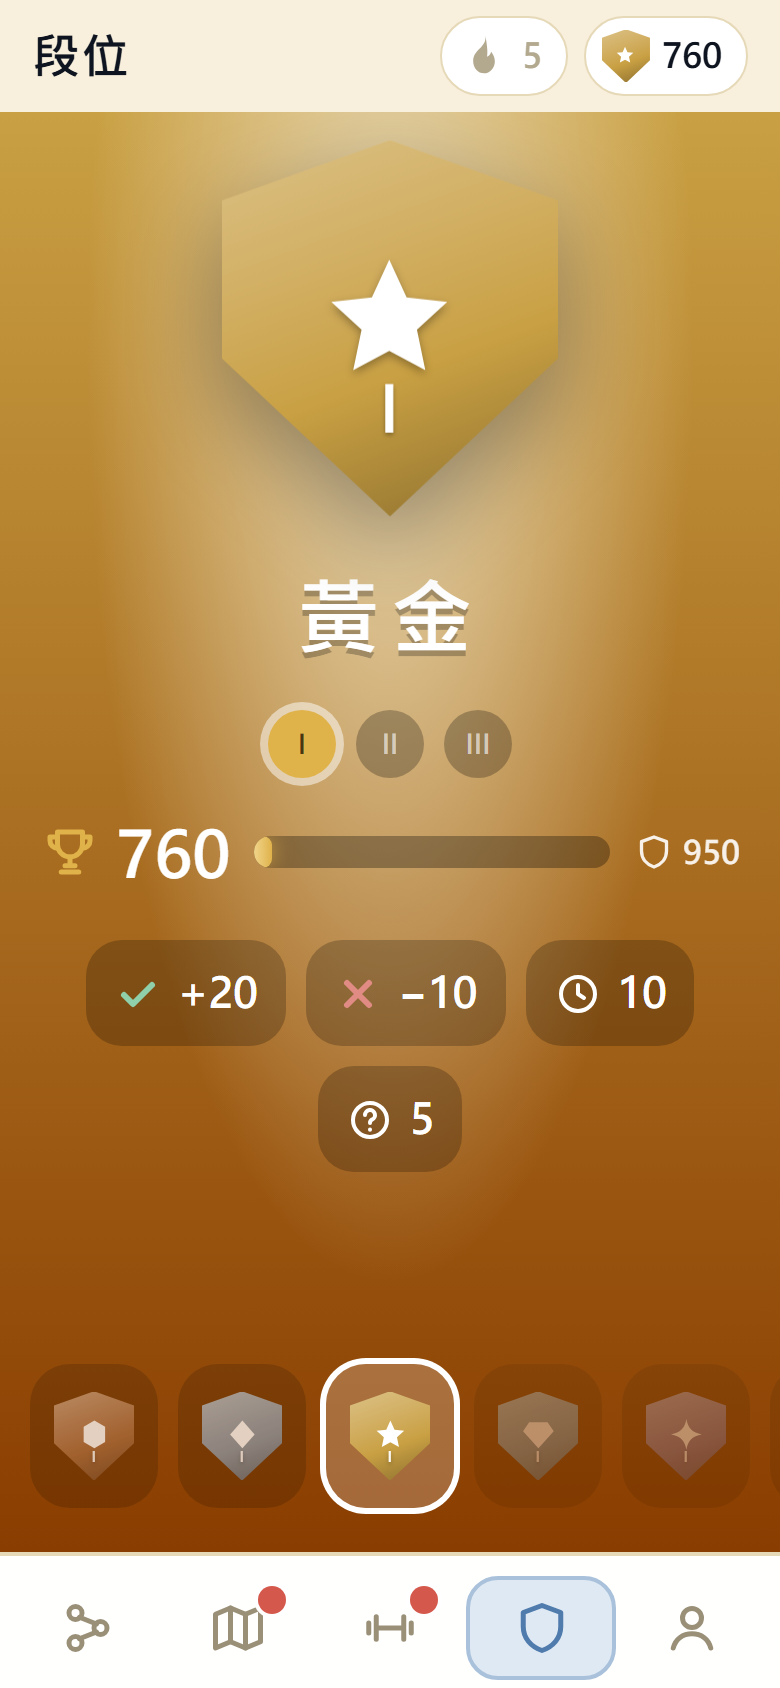
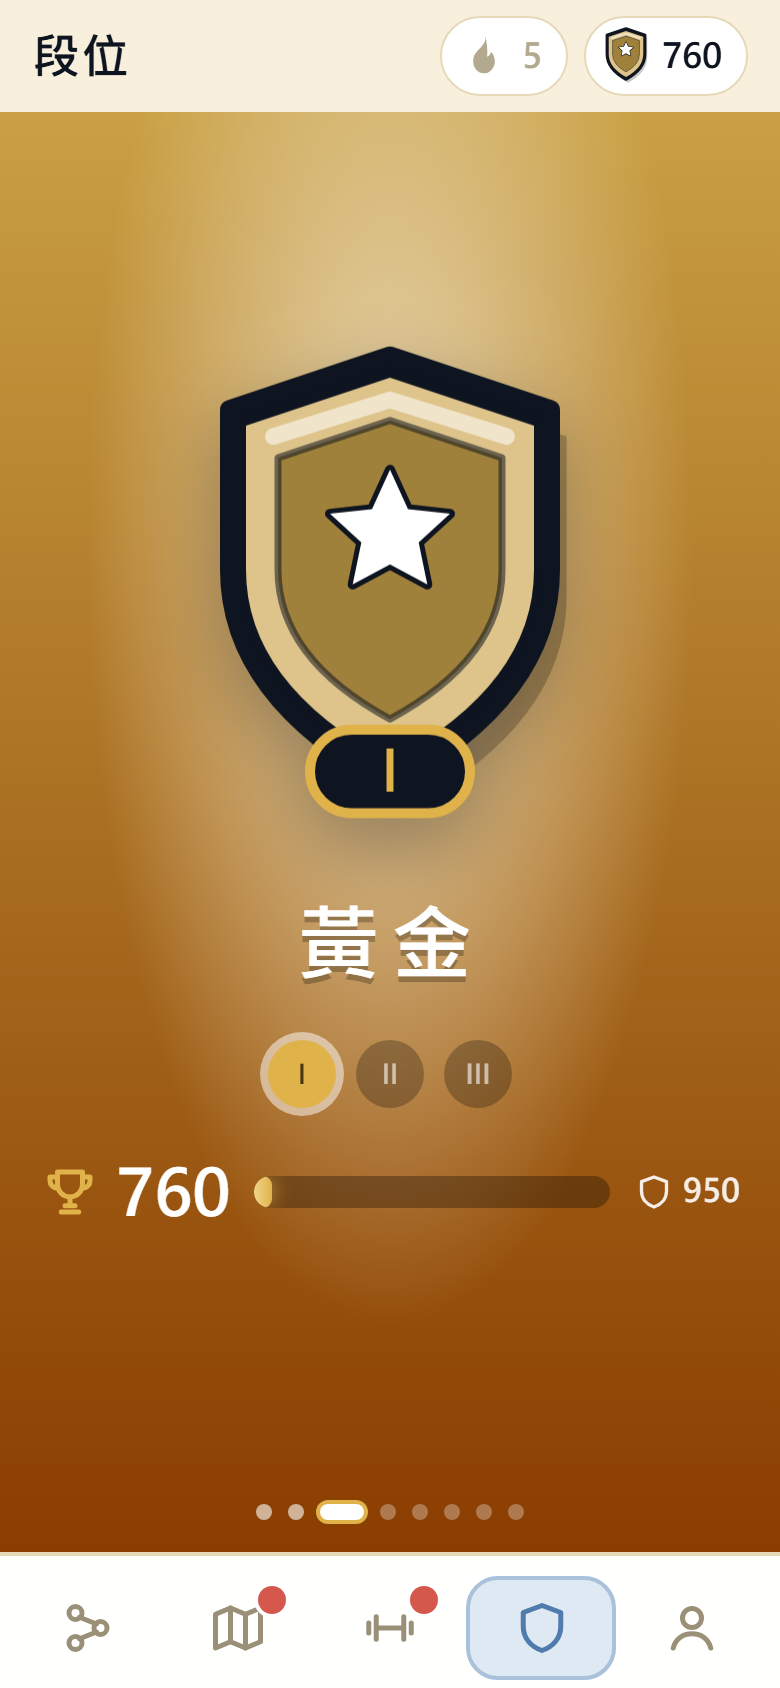
段位頁：固定不捲動、左右滑動換段位、移除規則數字、徽章重畫

diff --git a/js/views/league.js b/js/views/league.js
@@ -1,5 +1,5 @@
-// 段位：整頁是目前（或你點選）那個段位的顏色。大徽章、三階小點、盃數進度條，下方一排段位可以點。
-// 規則只用圖示和數字：答對加幾盃、答錯扣幾盃、每題幾秒、一局幾題。沒有說明文字，也沒有白色方框。
+// 段位：一頁固定、不上下滑。左右滑動換段位（像翻卡片），整頁是目前這個段位的顏色。
+// 畫面只有：大徽章、段位名稱、三階小點、盃數進度。沒有規則說明，也沒有白色方框。
 import { esc } from "../util.js";
 import { ic } from "../icons.js";
 import { rankBadge } from "../game.js";
@@ -7,22 +7,18 @@ import { rankBadge } from "../game.js";
 const ROMAN = ["I", "II", "III"];
 
 export function mountLeague(root, ctx) {
-  let sel = ctx.game.standing().tier.ri;
+  const st0 = ctx.game.standing();
+  let idx = st0.tier.ri;
   root.classList.add("bleed");
+  document.documentElement.classList.add("no-scroll");
 
-  function render() {
-    const st = ctx.game.standing();
-    const ranks = ctx.game.ranks;
-    const r = ranks[sel];
-    const isCur = sel === st.tier.ri;
-    const past = sel < st.tier.ri;
-    const m = r.match || {};
+  function slide(r, i, st) {
+    const isCur = i === st.tier.ri;
+    const past = i < st.tier.ri;
     const start = r.tiers[0];
-    const end = ranks[sel + 1]?.tiers[0] ?? null;
-    const tier = isCur ? st.tier : ctx.game.tierOf(start);
+    const ti = isCur ? st.tier.ti : (past ? r.tiers.length - 1 : 0);
     const pips = r.tiers.length > 1
-      ? `<ol class="lg-pips">${r.tiers.map((t, i) => `<li class="${past || (isCur && st.trophies >= t) ? "is-on" : ""}${isCur && st.tier.ti === i ? " is-now" : ""}">${ROMAN[i]}</li>`).join("")}</ol>` : "";
-    // 目前段位：進度條；沒到的段位：鎖頭和需要的盃數；過了的段位：勾
+      ? `<ol class="lg-pips">${r.tiers.map((t, k) => `<li class="${past || (isCur && st.trophies >= t) ? "is-on" : ""}${isCur && st.tier.ti === k ? " is-now" : ""}">${ROMAN[k]}</li>`).join("")}</ol>` : `<ol class="lg-pips" aria-hidden="true"></ol>`;
     let status;
     if (isCur) {
       const pct = Math.round(st.progress * 100);
@@ -30,37 +26,65 @@ export function mountLeague(root, ctx) {
         ${st.next ? `<div class="lg-bar" role="progressbar" aria-valuenow="${pct}" aria-valuemin="0" aria-valuemax="100"><span style="width:${pct}%"></span></div><span class="lg-to">${ic("shield")}<b>${st.next.from}</b></span>` : ""}</div>`;
     } else if (past) status = `<div class="lg-now"><span class="lg-done">${ic("check")}</span></div>`;
     else status = `<div class="lg-now"><b class="lg-num is-lock">${ic("lock")}${start}</b></div>`;
+    return `<section class="lg-slide${i === idx ? " is-active" : ""}" data-i="${i}" aria-label="${esc(r.name)}">
+      <div class="lg-badge">${rankBadge({ rank: r, ti, label: r.name }, "hero")}</div>
+      <h2 class="lg-name">${esc(r.name)}</h2>
+      ${pips}
+      ${status}
+    </section>`;
+  }
 
+  function paint() {
+    const r = ctx.game.ranks[idx];
+    const lg = root.querySelector(".lg");
+    lg.style.setProperty("--rank", r.color);
+    lg.style.setProperty("--rank2", r.color2 || r.color);
+    root.querySelectorAll(".lg-dots i").forEach((d, i) => d.classList.toggle("is-on", i === idx));
+    root.querySelectorAll(".lg-slide").forEach((s, i) => s.classList.toggle("is-active", i === idx));
+    root.querySelector(".lg-prev").disabled = idx === 0;
+    root.querySelector(".lg-next").disabled = idx === ctx.game.ranks.length - 1;
+  }
+
+  function go(i, smooth = true) {
+    const track = root.querySelector(".lg-track");
+    idx = Math.max(0, Math.min(ctx.game.ranks.length - 1, i));
+    track.scrollTo({ left: idx * track.clientWidth, behavior: smooth ? "smooth" : "auto" });
+    paint();
+  }
+
+  function render() {
+    const st = ctx.game.standing();
+    const ranks = ctx.game.ranks;
     root.innerHTML = `
-      <div class="lg" style="--rank:${esc(r.color)};--rank2:${esc(r.color2 || r.color)}">
-        <div class="lg-hero">
-          <div class="lg-badge">${rankBadge({ rank: r, ti: isCur ? st.tier.ti : (past ? r.tiers.length - 1 : 0), label: r.name }, "hero")}</div>
-          <h2 class="lg-name">${esc(r.name)}</h2>
-          ${pips}
-          ${status}
-          <ul class="lg-rules" aria-label="${esc(r.name)}的規則">
-            <li class="ok" title="答對">${ic("check")}<b>+${r.win}</b></li>
-            <li class="ng" title="答錯">${ic("cross")}<b>${r.loss ? "−" + r.loss : "0"}</b></li>
-            <li title="每題秒數">${ic("clock")}<b>${m.seconds || "∞"}</b></li>
-            <li title="一局題數">${ic("question")}<b>${m.questions || "?"}</b></li>
-          </ul>
-        </div>
-        <div class="lg-strip" role="tablist" aria-label="段位">
-          ${ranks.map((x, i) => `<button type="button" role="tab" aria-selected="${i === sel}" aria-label="${esc(x.name)}" class="lg-chip${i === sel ? " is-sel" : ""}${i === st.tier.ri ? " is-cur" : ""}${i > st.tier.ri ? " is-far" : ""}" data-i="${i}" style="--rank:${esc(x.color)}">
-            ${rankBadge({ rank: x, ti: i === st.tier.ri ? st.tier.ti : 0, label: x.name }, "md")}</button>`).join("")}
-        </div>
+      <div class="lg" role="group" aria-roledescription="段位輪播" aria-label="段位">
+        <div class="lg-track">${ranks.map((r, i) => slide(r, i, st)).join("")}</div>
+        <button type="button" class="lg-arrow lg-prev" aria-label="上一個段位">${ic("back")}</button>
+        <button type="button" class="lg-arrow lg-next" aria-label="下一個段位">${ic("back")}</button>
+        <div class="lg-dots" aria-hidden="true">${ranks.map((r, i) => `<i class="${i < st.tier.ri ? "is-past" : ""}${i === st.tier.ri ? " is-cur" : ""}"></i>`).join("")}</div>
       </div>`;
-    root.querySelector(".lg-chip.is-sel")?.scrollIntoView({ inline: "center", block: "nearest" });
+    const track = root.querySelector(".lg-track");
+    let raf = 0;
+    track.addEventListener("scroll", () => {
+      cancelAnimationFrame(raf);
+      raf = requestAnimationFrame(() => {
+        const i = Math.round(track.scrollLeft / Math.max(1, track.clientWidth));
+        if (i !== idx) { idx = i; paint(); }
+      });
+    }, { passive: true });
+    paint();
+    track.scrollLeft = idx * track.clientWidth;
   }
 
   root.addEventListener("click", (e) => {
-    const b = e.target.closest(".lg-chip");
-    if (!b) return;
-    sel = Number(b.dataset.i);
-    render();
+    if (e.target.closest(".lg-prev")) go(idx - 1);
+    else if (e.target.closest(".lg-next")) go(idx + 1);
   });
+  const onKey = (e) => { if (e.key === "ArrowLeft") go(idx - 1); else if (e.key === "ArrowRight") go(idx + 1); };
+  const onResize = () => go(idx, false);
+  window.addEventListener("keydown", onKey);
+  window.addEventListener("resize", onResize);
 
   render();
   const off = ctx.onState(render);
-  return { unmount: () => { off(); root.classList.remove("bleed"); } };
+  return { unmount: () => { off(); root.classList.remove("bleed"); document.documentElement.classList.remove("no-scroll"); window.removeEventListener("keydown", onKey); window.removeEventListener("resize", onResize); } };
 }

diff --git a/css/ui.css b/css/ui.css
@@ -244,18 +244,21 @@ body.focus #toast { bottom: 24px; }
 .pr-empty-ok { position: absolute; right: calc(50% - 76px); bottom: 48px; width: 38px; height: 38px; display: grid; place-items: center; border-radius: 50%; background: #6aa186; color: #fff; }
 .pr-empty-ok .ic { --ic: 22px; stroke-width: 3.2; }
 
-/* ---------- 段位：整頁是這個段位的顏色 ---------- */
-.lg { min-height: calc(100vh - var(--top-h) - var(--dock-h)); display: flex; flex-direction: column; justify-content: space-between; gap: 20px; padding: 12px 0 18px; color: #fff;
-  background: radial-gradient(ellipse at 50% 16%, color-mix(in srgb, var(--rank) 40%, #fff) 0, transparent 55%), linear-gradient(180deg, var(--rank), var(--rank2, #12202a)); transition: background .35s; }
-.lg-hero { display: grid; justify-items: center; gap: 12px; padding: 8px 20px 0; }
-.lg-badge .rank-badge { --s: 168px; filter: drop-shadow(0 16px 22px rgba(0, 0, 0, .35)); animation: float 3.6s ease-in-out infinite; }
-.lg-badge .rank-shield i svg { filter: drop-shadow(0 2px 2px rgba(0, 0, 0, .3)); }
+/* ---------- 段位：一頁固定，左右滑動換段位；整頁是這個段位的顏色 ---------- */
+html.no-scroll, html.no-scroll body { overflow: hidden; overscroll-behavior: none; }
+.lg { --lg-h: calc(100dvh - var(--top-h) - env(safe-area-inset-top) - var(--dock-h) - env(safe-area-inset-bottom)); position: relative; height: var(--lg-h); overflow: hidden; color: #fff;
+  background: radial-gradient(ellipse at 50% 30%, color-mix(in srgb, var(--rank) 40%, #fff) 0, transparent 55%), linear-gradient(180deg, var(--rank), var(--rank2, #12202a)); transition: background .35s; }
+.lg-track { height: 100%; display: flex; overflow-x: auto; overflow-y: hidden; scroll-snap-type: x mandatory; scrollbar-width: none; overscroll-behavior: contain; -webkit-overflow-scrolling: touch; touch-action: pan-x; }
+.lg-track::-webkit-scrollbar { display: none; }
+.lg-slide { flex: none; width: 100%; height: 100%; scroll-snap-align: center; scroll-snap-stop: always; display: flex; flex-direction: column; align-items: center; justify-content: center; gap: 14px; padding: 0 20px 34px; box-sizing: border-box; }
+.lg-badge .rank-badge { --s: min(200px, 28dvh); filter: drop-shadow(0 14px 18px rgba(0, 0, 0, .3)); }
+.lg-slide.is-active .lg-badge .rank-badge { animation: float 3.6s ease-in-out infinite; }
 .lg-name { margin: 0; font-size: 2.6rem; font-weight: 900; letter-spacing: .12em; text-shadow: 0 3px 0 rgba(0, 0, 0, .25); }
-.lg-pips { list-style: none; display: flex; gap: 10px; margin: 0; padding: 0; }
+.lg-pips { list-style: none; display: flex; gap: 10px; margin: 0; padding: 0; min-height: 34px; }
 .lg-pips li { width: 34px; height: 34px; display: grid; place-items: center; border-radius: 50%; background: rgba(0, 0, 0, .25); font-weight: 900; font-size: .85rem; color: rgba(255, 255, 255, .6); }
 .lg-pips li.is-on { background: var(--gold); color: #4a3512; }
 .lg-pips li.is-now { box-shadow: 0 0 0 4px rgba(255, 255, 255, .5); }
-.lg-now { display: flex; align-items: center; gap: 12px; width: min(100%, 360px); justify-content: center; }
+.lg-now { display: flex; align-items: center; gap: 12px; width: min(100%, 360px); justify-content: center; min-height: 56px; }
 .lg-num { display: inline-flex; align-items: center; gap: 8px; font-size: 2rem; font-weight: 900; font-variant-numeric: tabular-nums; }
 .lg-num .ic { --ic: 30px; color: var(--gold); }
 .lg-num.is-lock .ic { color: rgba(255, 255, 255, .8); }
@@ -265,18 +268,19 @@ body.focus #toast { bottom: 24px; }
 .lg-to .ic { --ic: 20px; }
 .lg-done { width: 56px; height: 56px; display: grid; place-items: center; border-radius: 50%; background: #6aa186; }
 .lg-done .ic { --ic: 32px; stroke-width: 3.2; }
-.lg-rules { list-style: none; display: flex; gap: 10px; margin: 6px 0 0; padding: 0; flex-wrap: wrap; justify-content: center; }
-.lg-rules li { display: inline-flex; align-items: center; gap: 8px; padding: 10px 14px; border-radius: 18px; background: rgba(0, 0, 0, .22); font-size: 1.3rem; font-weight: 900; }
-.lg-rules .ic { --ic: 24px; }
-.lg-rules .ok .ic { color: #8fd0aa; } .lg-rules .ng .ic { color: #e08c84; }
-.lg-strip { display: flex; gap: 10px; overflow-x: auto; padding: 10px 20px 4px; scrollbar-width: none; -webkit-overflow-scrolling: touch; }
-.lg-strip::-webkit-scrollbar { display: none; }
-.lg-chip { flex: none; display: grid; place-items: center; width: 64px; height: 72px; border: 0; border-radius: 20px; background: rgba(0, 0, 0, .2); cursor: pointer; opacity: .75; }
-.lg-chip .rank-badge { --s: 40px; }
-.lg-chip.is-far { opacity: .4; filter: grayscale(.5); }
-.lg-chip.is-sel { opacity: 1; background: rgba(255, 255, 255, .22); box-shadow: 0 0 0 3px #fff; filter: none; }
-.lg-chip.is-cur::after { content: ""; position: absolute; }
-@media (min-width: 721px) { .lg { min-height: calc(100vh - var(--top-h)); } .lg-strip { justify-content: center; } }
+.lg-arrow { position: absolute; top: 34%; width: 48px; height: 48px; display: grid; place-items: center; border: 0; border-radius: 50%; background: rgba(0, 0, 0, .22); color: #fff; cursor: pointer; transition: opacity .2s; }
+.lg-prev { left: 8px; } .lg-next { right: 8px; transform: scaleX(-1); }
+.lg-arrow:disabled { opacity: 0; pointer-events: none; }
+.lg-dots { position: absolute; left: 0; right: 0; bottom: 16px; display: flex; justify-content: center; gap: 8px; pointer-events: none; }
+.lg-dots i { width: 8px; height: 8px; border-radius: 50%; background: rgba(255, 255, 255, .3); transition: all .25s; }
+.lg-dots i.is-past { background: rgba(255, 255, 255, .6); }
+.lg-dots i.is-cur { box-shadow: 0 0 0 2px var(--gold); }
+.lg-dots i.is-on { background: #fff; width: 22px; border-radius: 4px; }
+@media (min-width: 721px) { .lg { --lg-h: calc(100dvh - var(--top-h)); } }
+@media (max-width: 720px) { .lg-arrow { display: none; } }
+.rank-badge .rb { width: var(--s); height: calc(var(--s) * 1.217); display: block; overflow: visible; }
+.size-sm .rb-tier, .size-md .rb-tier { display: none; }
+
 
 /* 段位徽章（盾牌）：圖案用自己畫的 SVG */
 .rank-shield i { display: grid; place-items: center; }

diff --git a/js/game.js b/js/game.js
@@ -136,6 +136,19 @@ export function makeGame(cfg) {
 export function rankBadge(tier, size = "md") {
   const r = tier.rank;
   const roman = r.tiers.length > 1 && tier.ti != null ? ROMAN[tier.ti] : "";
+  // 畫風：粗墨色外框、純色塊、上緣一道亮面；顏色來自段位（--rank），圖案是白色加墨色描邊
+  const SH = "M60 6 L108 22 L108 70 Q108 108 60 134 Q12 108 12 70 L12 22 Z";
+  const sc = (k) => `translate(60 70) scale(${k}) translate(-60 -70)`;
+  const glyph = rankGlyph(r.id).replace("<svg ", '<svg x="36" y="34" width="48" height="48" style="color:#fff" stroke="#0f1520" stroke-width="1.5" stroke-linejoin="round" paint-order="stroke" ');
   return `<span class="rank-badge rank-${esc(r.id)} size-${size}" style="--rank:${esc(r.color)}" title="${esc(tier.label)}" aria-label="段位：${esc(tier.label)}">
-    <span class="rank-shield"><i>${rankGlyph(r.id)}</i>${roman ? `<b>${roman}</b>` : ""}</span></span>`;
+    <svg class="rb" viewBox="0 0 120 146" focusable="false" aria-hidden="true">
+      <path d="${SH}" fill="#000" opacity=".22" transform="translate(5 8)"/>
+      <path d="${SH}" fill="#0f1520" stroke="#0f1520" stroke-width="6" stroke-linejoin="round"/>
+      <path d="${SH}" fill="color-mix(in srgb, var(--rank) 62%, #fff)" transform="${sc(.9)}"/>
+      <path d="M25 30 L60 19 L95 30" fill="none" stroke="#fff" stroke-width="5" stroke-linecap="round" stroke-linejoin="round" opacity=".55"/>
+      <path d="${SH}" fill="color-mix(in srgb, var(--rank) 78%, #0f1520)" transform="${sc(.7)}"/><path d="${SH}" fill="none" stroke="#0f1520" stroke-width="3" stroke-linejoin="round" opacity=".55" transform="${sc(.7)}"/>
+      
+      ${glyph}
+      ${roman ? `<g class="rb-tier"><rect x="36" y="118" width="48" height="25" rx="12.500" fill="#0f1520" stroke="#e0b24a" stroke-width="3"/><text x="60" y="136.500" text-anchor="middle" font-size="17" font-weight="900" fill="#e0b24a" font-family="system-ui,sans-serif">${roman}</text></g>` : ""}
+    </svg></span>`;
 }

diff --git a/sw.js b/sw.js
@@ -2,7 +2,7 @@
 // 白話：第一次連線時，把整個 App（程式、資料、圖示）存進手機；之後沒網路也打得開。
 // 有網路時一律先抓最新版（改了內容馬上看到），網路慢或斷線才用存起來的舊版。
 // 要更新快取的版本號時，改下面的 VERSION；新增檔案時，把路徑加進 SHELL。
-const VERSION = "v4";
+const VERSION = "v5";
 const CACHE = `semimap-${VERSION}`;
 const NETWORK_TIMEOUT_MS = 4000;
 

diff --git a/決策紀錄.md b/決策紀錄.md
@@ -260,3 +260,9 @@
 - 色盤：從高彩度的藍、橘、綠、金，改成沙色底（#f7efdc）、鋼藍（#4f7bad）、鼠尾草綠（#6aa186）、陶橘（#d9863f）、暗金（#e0b24a）、墨色（#0f1520）。段位顏色也同步降低彩度。
 - 原因：吉祥物和圖示的調性是低彩度、粗線條；原本鮮豔的介面色會和它打架。
 - 取代：舊的吉祥物（藍色圓角晶片，白眼珠加笑嘴）和舊的白色線條晶片圖示。舊的 icon.svg 檔還留在 icons/，沒有再使用。
+
+## 2026-11-11｜段位頁：固定不捲動、左右滑動換段位、刪除規則數字、徽章重畫
+- 決定（本人指示）：段位頁整頁固定、不能上下滑；要看其他段位改成左右滑動（電腦版加左右箭頭與鍵盤方向鍵），拿掉下方的選取列；刪除「答對加幾盃、答錯扣幾盃、秒數、題數」四個數字；內容置中。
+- 徽章改成新畫風：粗墨色外框、亮邊、深色內板、白色圖案加墨色描邊、底部金邊的階數牌（I／II／III）。
+- 規則數字仍然存在 data/game.json（遊戲照樣用），只是不在這一頁顯示。
+- 嘗試安裝 GitHub 上的設計 skill（svg-illustration、game-ui-design）被系統擋下，沒有安裝；這次徽章用現有的 frontend-design 準則自己畫。
